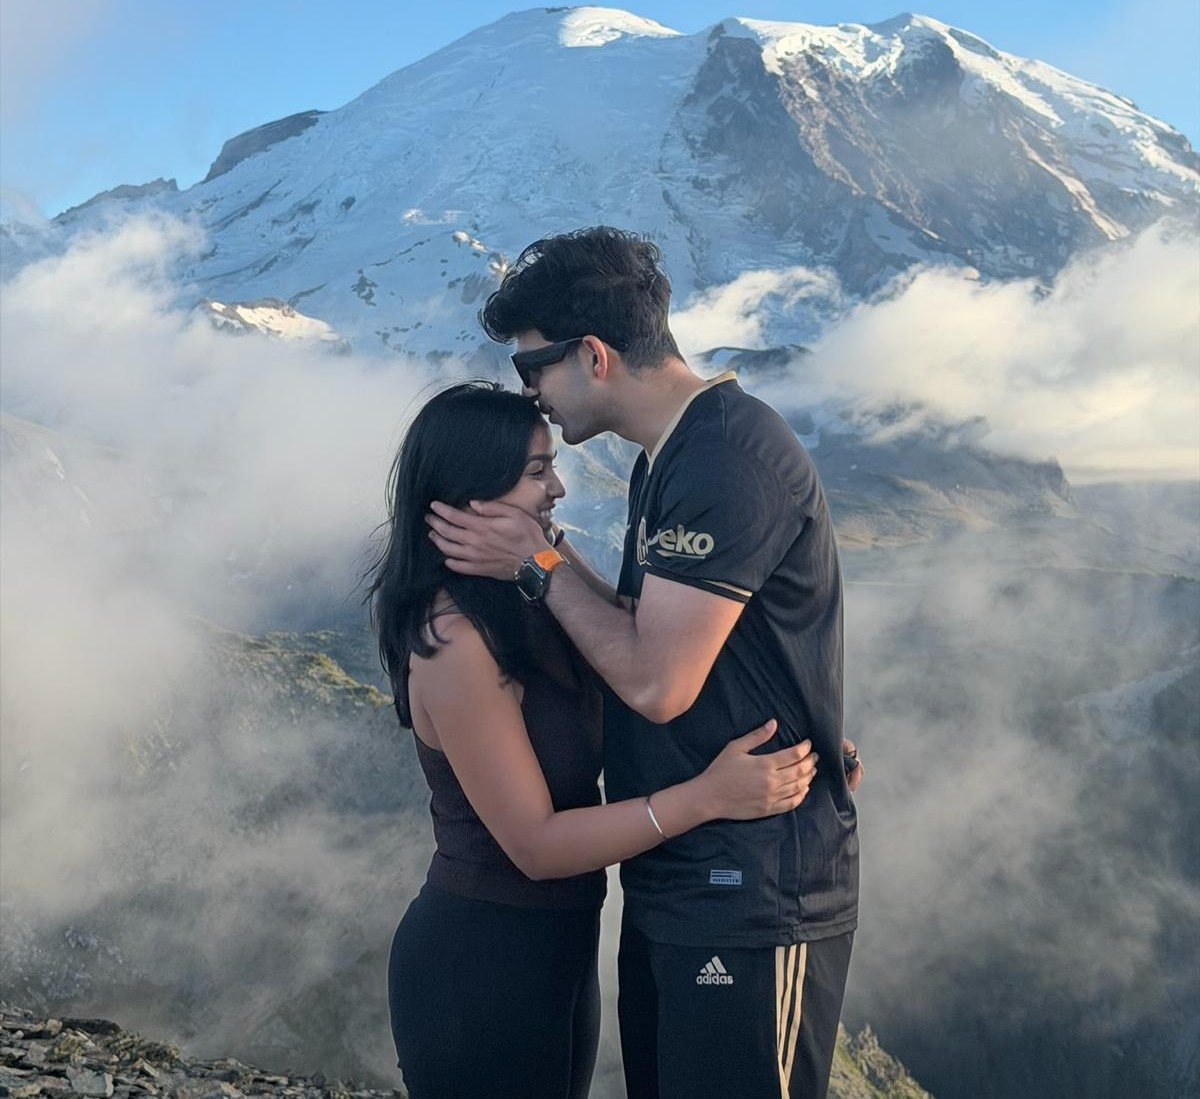
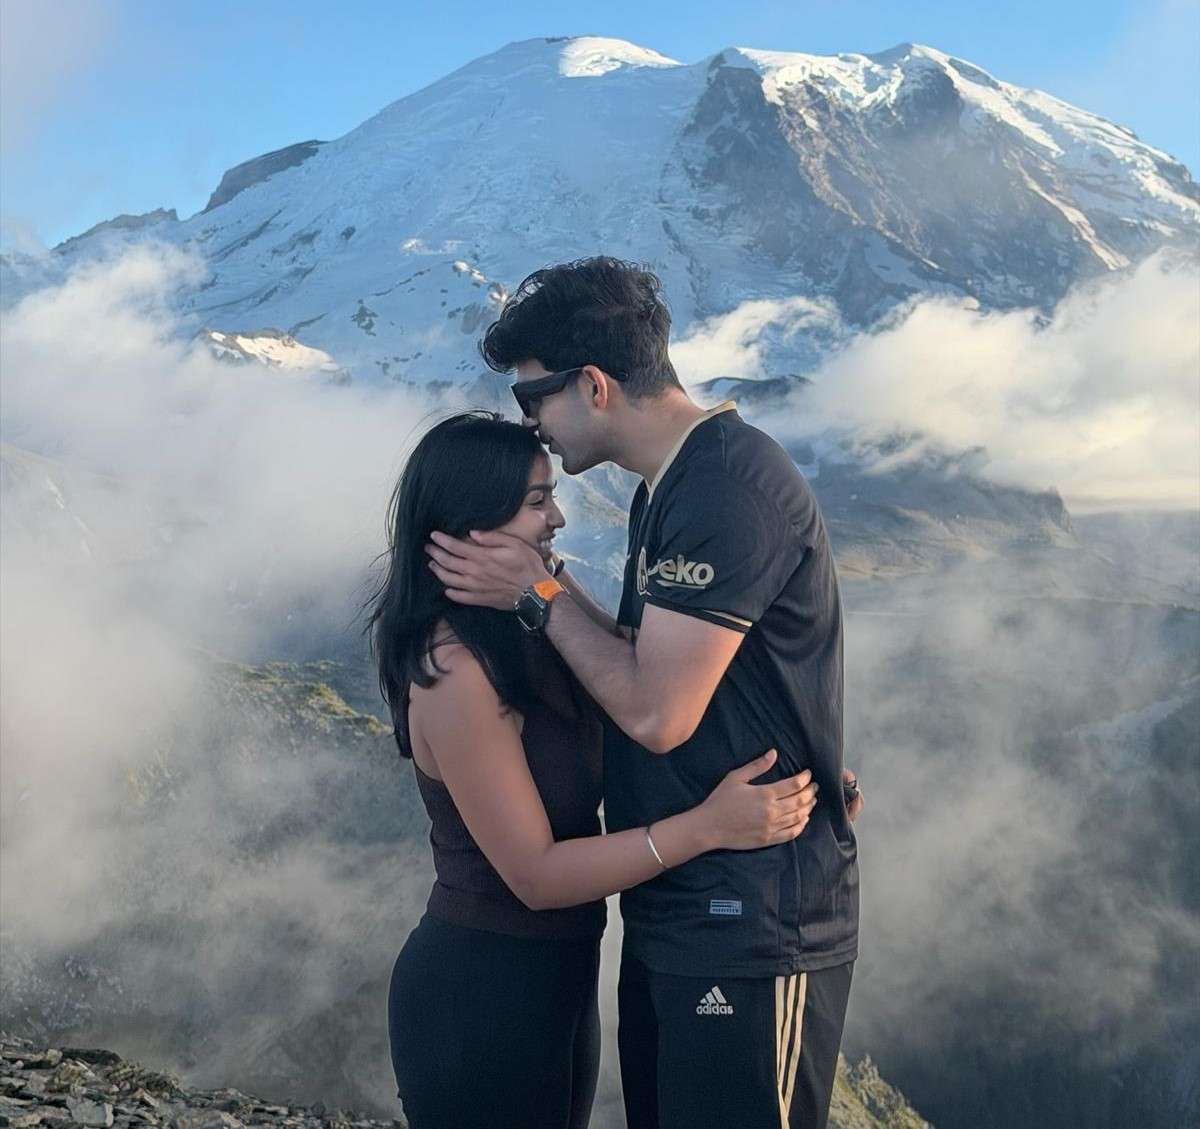
Sync local changes

diff --git a/index.html b/index.html
@@ -1067,7 +1067,7 @@ const CONFIG = {
     items: [
       { type: "photo", src: "assets/photo-1.jpg", caption: "My favourite picture of us.", feature: true },
       { type: "photo", src: "assets/photo-2.jpg", caption: "You, mid-laugh. My favourite version of you." },
-      { type: "photo", src: "assets/photo-7.mp4", caption: "Us on top of the world.", feature: true },
+      { type: "video", src: "assets/photo-7.mp4", caption: "Us on top of the world.", feature: true },
       { type: "photo", src: "assets/photo-3.jpg", caption: "This is the one I keep going back to." },
       { type: "photo", src: "assets/photo-4.jpg", caption: "You didn't know I was taking this." },
       { type: "photo", src: "assets/photo-5.jpg", caption: "Golden hour was clearly made for you." },
